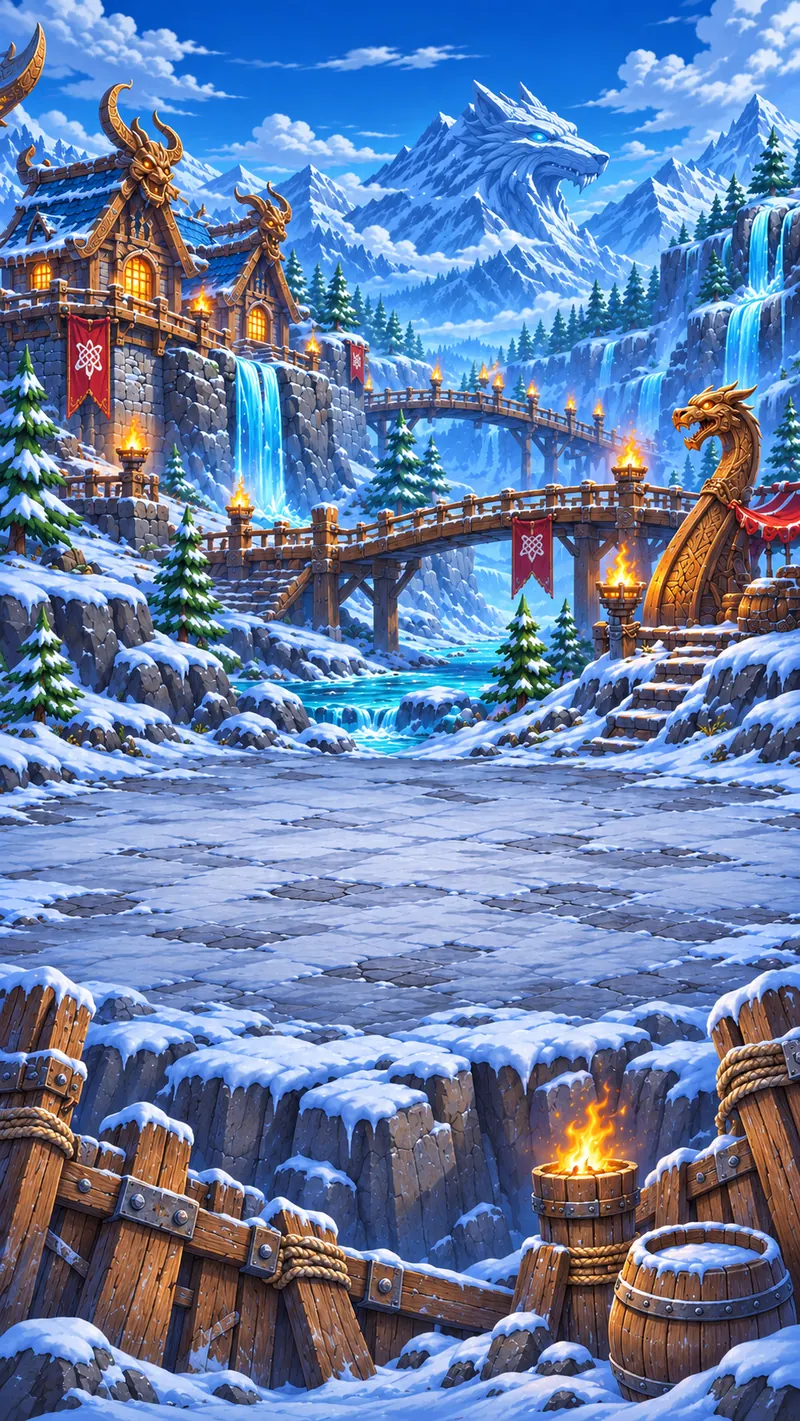
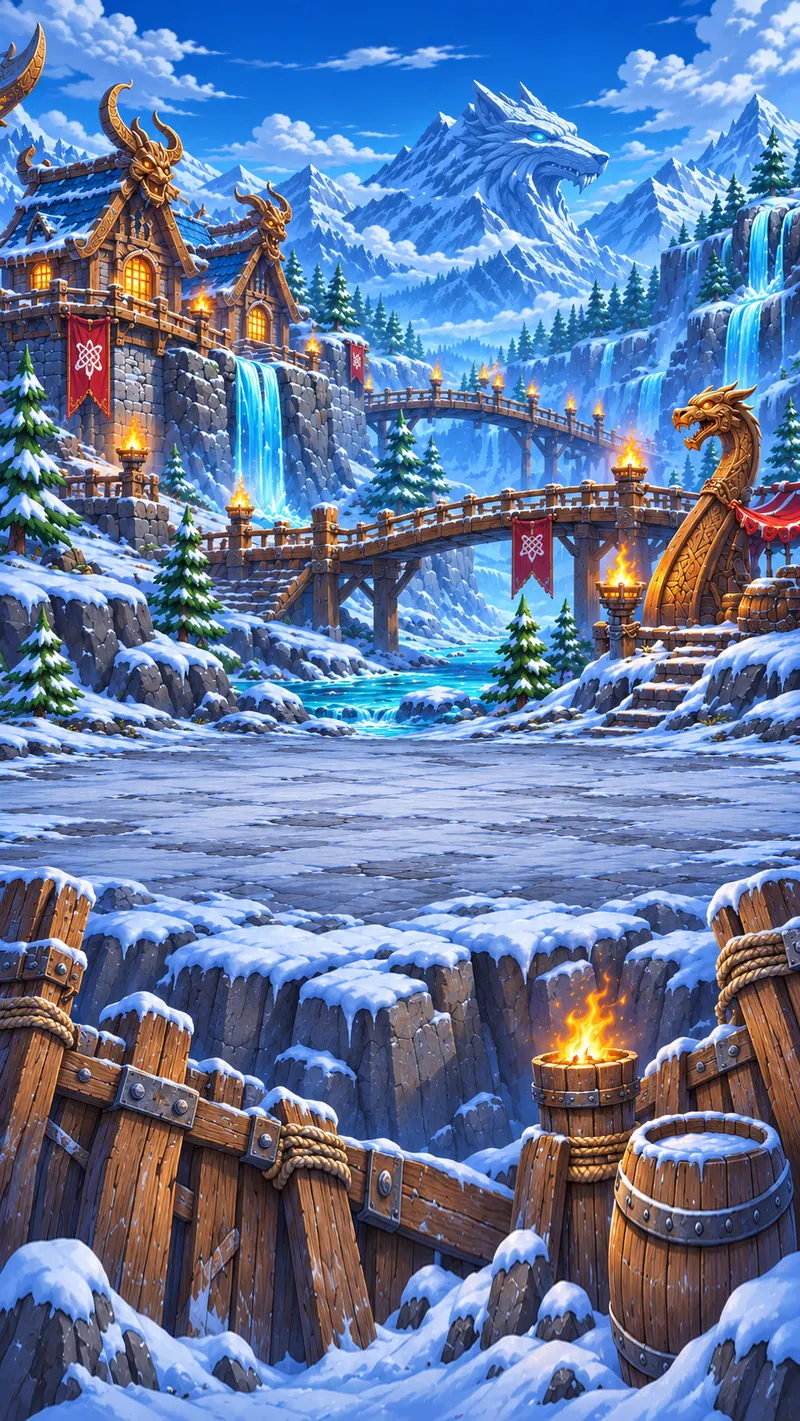
fix(city): move approved cliff edge into visible playfield and preserve tall-screen scene

diff --git a/src/components/HomeScreen.tsx b/src/components/HomeScreen.tsx
@@ -156,7 +156,7 @@ export function HomeScreen({ saveStatus, questAlerts, onOpen, onBattle, onInvent
       <LiveCityBackdrop animated={cityMotion} background={cityBackground} />
       <div className="absolute inset-0 pointer-events-none bg-gradient-to-b from-sky-500/[0.05] via-transparent to-amber-500/[0.04]" />
       <div className="absolute inset-x-0 top-0 h-32 bg-gradient-to-b from-black/45 to-transparent pointer-events-none" />
-      <div className="absolute inset-x-0 bottom-0 h-[230px] bg-gradient-to-t from-[#07090d] via-[#07090d]/65 to-transparent pointer-events-none" />
+      <div className="absolute inset-x-0 bottom-0 h-[230px] bg-gradient-to-t from-[#0c1d30]/85 via-[#0c1d30]/35 to-transparent pointer-events-none" />
 
       <div className="home-top-hud absolute inset-x-0 z-20 px-2 flex items-start gap-2">
         <button onClick={() => onOpen('hero')} className="home-profile-chip flex items-center gap-1.5 min-w-0 shrink-0 rounded-2xl border border-amber-300/55 bg-gradient-to-br from-[#17202b]/90 via-[#090d12]/90 to-[#241706]/90 backdrop-blur-sm p-1 pr-2 active:scale-95 transition-transform" aria-label={t('profile')}>

diff --git a/src/index.css b/src/index.css
@@ -868,7 +868,7 @@ html.territory-desktop-webapp .home-side-stack .home-side {
   --home-side-top: 98px;
   --home-side-bottom: 196px;
   --home-character-top: 158px;
-  --home-character-bottom: 196px;
+  --home-character-bottom: 218px;
 }
 .home-top-hud { top: var(--home-hud-top); }
 .home-chapter { top: var(--home-chapter-top); }

diff --git a/scripts/check-profile-browser.py b/scripts/check-profile-browser.py
@@ -177,7 +177,15 @@ with sync_playwright() as p:
             assert page.locator('.home-side').evaluate_all('buttons => buttons.every(b => { const r=b.getBoundingClientRect(); return r.width >= 40 && r.height >= 40 && r.left >= 0 && r.right <= innerWidth; })')
             page.locator('.home-profile-chip').click()
             assert page.evaluate('window.__route') == 'hero'
-            if width == 360 and lang == 'ru': page.screenshot(path='/tmp/territory-city-360.png')
+            if width == 360 and lang == 'ru':
+                page.screenshot(path='/tmp/territory-city-360.png')
+                # Realistic tall Telegram canvas: cliff/rope fence must be visible below the fighters.
+                page.set_viewport_size({'width': 360, 'height': 760})
+                page.screenshot(path='/tmp/territory-city-tall-360.png')
+                tall_boxes = [page.locator('[data-testid="city-' + who + '-slot"]').bounding_box()
+                              for who in ('follower', 'hero', 'enemy')]
+                assert tall_boxes[0]['x'] + tall_boxes[0]['width'] + 2 < tall_boxes[1]['x'], ('tall', tall_boxes)
+                assert tall_boxes[1]['x'] + tall_boxes[1]['width'] + 2 < tall_boxes[2]['x'], ('tall', tall_boxes)
             page.close()
     browser.close()
 server.shutdown()
